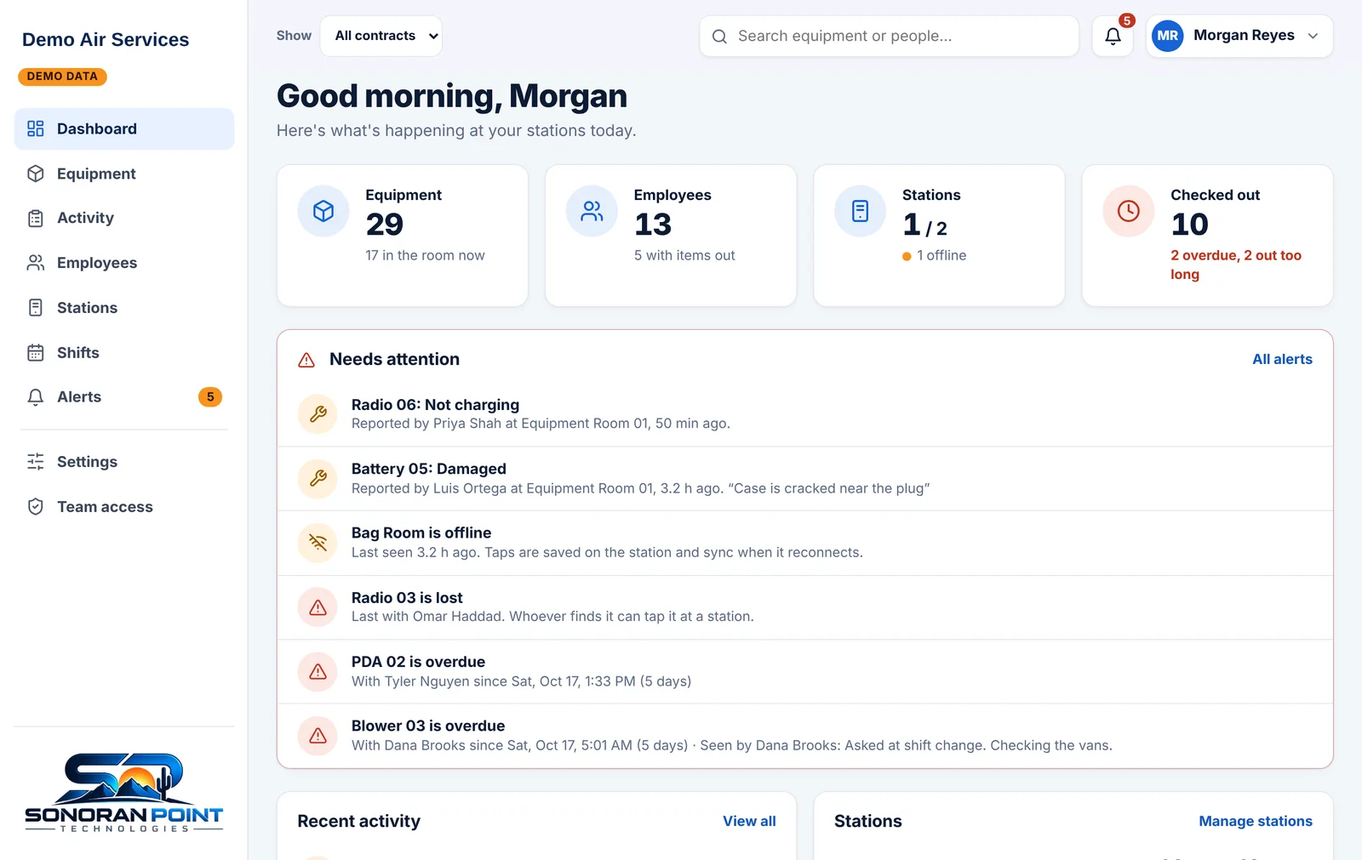
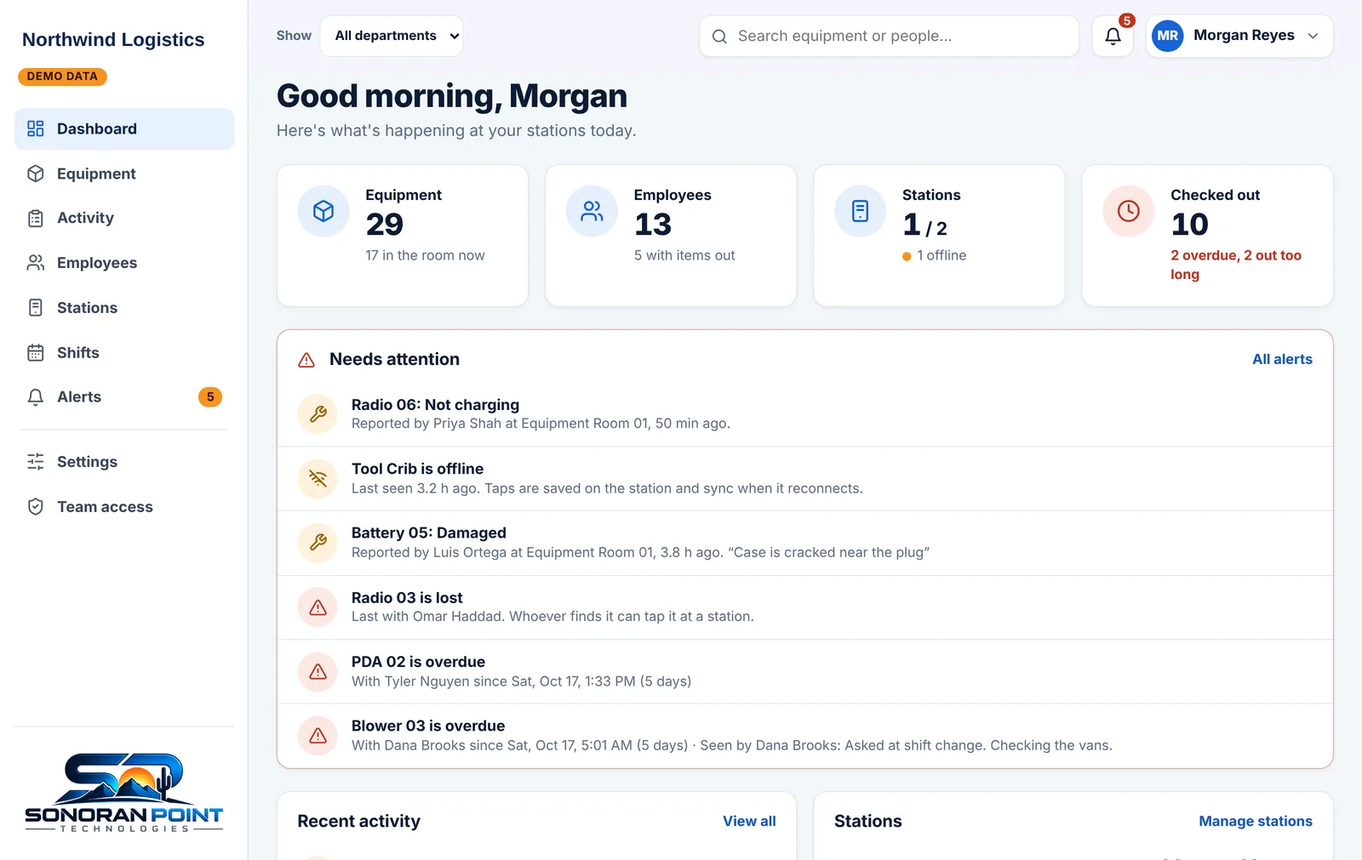
Site: broad asset-tracking pitch (accountability, ease of use, departments and sites under one company); drop the console demo; neutral demo company
Claude-Session: https://claude.ai/code/session_013UmVeohacmiEqqr8BzfnLS

diff --git a/site/index.html b/site/index.html
@@ -3,11 +3,11 @@
 <head>
 <meta charset="utf-8">
 <meta name="viewport" content="width=device-width, initial-scale=1">
-<title>Sonoran Point · Equipment checkout for ramp crews</title>
-<meta name="description" content="Crews tap their badge and the equipment at a station by the door. Supervisors see what's out, what's late and who had it last. Try it in your browser.">
+<title>Sonoran Point · Asset checkout and tracking</title>
+<meta name="description" content="Know where every asset is and who has it. Tap a badge, tap the item, done. Overdue alerts, full history, and every department and site under one company. Try it in your browser.">
 <link rel="icon" href="brand/favicon.ico" sizes="32x32"><link rel="icon" type="image/png" href="brand/mark-64.png"><link rel="apple-touch-icon" href="brand/apple-touch-icon.png">
-<meta property="og:title" content="Sonoran Point · Equipment checkout for ramp crews">
-<meta property="og:description" content="Tap a badge, tap the equipment, done. See what's out, what's late and who had it last.">
+<meta property="og:title" content="Sonoran Point · Asset checkout and tracking">
+<meta property="og:description" content="Know where every asset is and who has it. Tap a badge, tap the item, done.">
 <meta property="og:image" content="https://sonoranpoint.com/img/station_session.webp">
 <link rel="preconnect" href="https://fonts.googleapis.com"><link rel="preconnect" href="https://fonts.gstatic.com" crossorigin>
 <link rel="stylesheet" href="https://fonts.googleapis.com/css2?family=Saira:wght@500;600&family=Atkinson+Hyperlegible:wght@400;700&display=swap">
@@ -18,15 +18,15 @@
 <div class="hero">
   <header class="top dark"><div class="wrap">
     <a class="logo" href="/" aria-label="Sonoran Point Technologies, home"><img src="brand/logo-light.png" srcset="brand/logo-light.png 1x, brand/logo-light@2x.png 2x" alt="Sonoran Point Technologies" width="168" height="83"></a>
-    <nav aria-label="Main"><a href="#how">How it works</a><a href="/help/">Help</a><a href="https://app.sonoranpoint.com/">Sign in</a><a class="btn primary" href="/try/">Try it now</a></nav>
+    <nav aria-label="Main"><a href="#how">How it works</a><a href="#company">Your company</a><a href="/help/">Help</a><a href="https://app.sonoranpoint.com/">Sign in</a><a class="btn primary" href="/try/">Try it now</a></nav>
   </div></header>
   <div class="wrap grid" id="main">
     <div>
-      <h1>Every radio, tug key and battery, accounted for.</h1>
-      <p class="lede">Equipment checkout for ramp and ground-handling crews. Crews tap their badge and the gear at a station by the door. Supervisors see what's out, what's late and who had it last.</p>
+      <h1>Know where every asset is, and who has it.</h1>
+      <p class="lede">Checkout and tracking people actually use. Tap a badge, tap the item, done. Every tool, radio, laptop and key is tied to a person, with an alert the moment something's late.</p>
       <div class="cta"><a class="btn primary" href="/try/">Try it now</a><a class="btn ghost" href="mailto:support@sonoranpoint.com?subject=Sonoran%20Point">Email us</a></div>
     </div>
-    <img class="shot" src="img/station_session.webp" width="1600" height="1036" alt="The station screen after a badge tap: Hi, Alex. Checked out Vacuum 01, due back by 4:02 PM.">
+    <img class="shot" src="img/station_session.webp" width="1600" height="1035" alt="The station screen after a badge tap: Hi, Alex. Checked out Vacuum 01, due back by 4:02 PM.">
   </div>
   <svg class="ridge" viewBox="0 0 1440 120" preserveAspectRatio="none" aria-hidden="true"><path d="M0 120V84l96-22 70 18 118-50 92 34 64-12 138 54 120-44 84 20 150-62 112 46 90-14 128 40 78-16 110 30v18z" fill="var(--paper)"/></svg>
 </div>
@@ -34,48 +34,97 @@
 <main>
   <section class="band" id="how"><div class="wrap split">
     <div>
-      <h2>Three taps at the door</h2>
-      <p class="lede">The station sits by the equipment room. Nobody types, nobody signs a clipboard.</p>
+      <h2>So easy nobody skips it</h2>
+      <p class="lede">Tracking only works if people do it every time. A station by the door makes it a three-second habit: no logins, no typing, no clipboard.</p>
       <ol class="steps">
         <li><b>Tap your badge</b><span>The station says hello by name and shows what you already have out.</span></li>
-        <li><b>Tap the equipment</b><span>New items check out to you; items you have come back. Gear that already has a barcode can be scanned instead.</span></li>
+        <li><b>Tap the item</b><span>New items check out to you; items you have come back. Things that already carry a barcode can be scanned instead.</span></li>
         <li><b>Done</b><span>It asks if anything you returned has a problem, then signs you out on its own.</span></li>
       </ol>
     </div>
-    <img class="shot-frame" src="img/station.webp" width="1600" height="1036" alt="The station's start screen: Tap your badge, then tap what you're taking or bringing back." loading="lazy">
+    <img class="shot-frame" src="img/station.webp" width="1600" height="1035" alt="The station's start screen: Tap your badge, then tap what you're taking or bringing back." loading="lazy">
   </div></section>
 
   <section class="band"><div class="wrap split flip">
     <div>
-      <h2>Know what's out before the shift ends</h2>
-      <p class="lede">Supervisors get a dashboard on any computer or phone, and only the emails they ask for.</p>
+      <h2>Accountability without chasing anyone</h2>
+      <p class="lede">Every checkout has a name and a time on it. Managers see the whole picture on any computer or phone.</p>
       <ul class="facts">
-        <li><b>Overdue and out-too-long alerts</b><span>On the dashboard, and by email to the people who want them.</span></li>
+        <li><b>Who has it, since when</b><span>Tap any item at a station, or search the dashboard, and see who has it right now.</span></li>
+        <li><b>Late and long-out alerts</b><span>Set a time limit per item or type. Late items show up straight away, and by email to the people who want them.</span></li>
         <li><b>A report at the end of every shift</b><span>What went out, what came back and what's still missing, ready to sign off.</span></li>
-        <li><b>Problems reported at the station</b><span>Damaged, not charging, missing a part. Damaged gear is flagged before the next person takes it.</span></li>
-        <li><b>Separate contracts that never mix</b><span>Delta and United below wing each see their own gear and people, with loans between them when you allow it.</span></li>
-        <li><b>Download any list</b><span>Activity, equipment and shift reports go straight to a spreadsheet.</span></li>
+        <li><b>Problems reported on the spot</b><span>Damaged, not charging, missing a part. Damaged items are flagged before the next person takes them.</span></li>
+        <li><b>The full history, ready to export</b><span>Every checkout and return, kept, and one click from a spreadsheet.</span></li>
       </ul>
     </div>
-    <img class="shot-frame" src="img/app.webp" width="1600" height="1012" alt="The supervisor dashboard: equipment, employees, stations and checkouts, with a list of what needs attention." loading="lazy">
+    <img class="shot-frame" src="img/app.webp" width="1600" height="1011" alt="The dashboard: assets, people, stations and checkouts, with a list of what needs attention." loading="lazy">
+  </div></section>
+
+  <section class="band" id="company"><div class="wrap split">
+    <div>
+      <h2>One company, every department and site</h2>
+      <p class="lede">Build your company the way it's actually run, as many levels deep as you need, and put a station wherever things are kept.</p>
+      <ul class="facts">
+        <li><b>Your word for it</b><span>Call them departments, sites, teams or contracts. You choose the word, and the stations and dashboard use it.</span></li>
+        <li><b>Keep groups apart, or let them share</b><span>Each group's badges and assets work at its own stations. Let neighbours share, or keep them strictly separate.</span></li>
+        <li><b>Lend across groups</b><span>One department can lend an item to another until it's brought back.</span></li>
+        <li><b>Managers see their part</b><span>A department manager sees only their department. Owners see everything.</span></li>
+      </ul>
+    </div>
+    <figure class="orgtree" aria-label="Example: one company with sites, departments and stations">
+      <figcaption>For example</figcaption>
+      <ul>
+        <li><b>Northwind Logistics</b>
+          <ul>
+            <li><b>Phoenix site</b>
+              <ul>
+                <li>Shipping <span>Dock station</span></li>
+                <li>Maintenance <span>Tool crib station</span></li>
+              </ul>
+            </li>
+            <li><b>Tucson site</b>
+              <ul>
+                <li>Warehouse <span>Front desk station</span></li>
+              </ul>
+            </li>
+            <li><b>Field service</b>
+              <ul>
+                <li>North team <span>Van keys station</span></li>
+                <li>South team <span>Van keys station</span></li>
+              </ul>
+            </li>
+          </ul>
+        </li>
+      </ul>
+    </figure>
   </div></section>
 
   <section class="band"><div class="wrap">
-    <h2>Built for the equipment room</h2>
-    <p class="lede" style="margin-top:16px">A touchscreen station with an NFC reader built in. Mount it by the door and plug it in.</p>
+    <h2>For anything people borrow and bring back</h2>
+    <p class="lede" style="margin-top:16px">If it walks off, it can be tracked.</p>
+    <ul class="uses">
+      <li>Tool cribs and maintenance shops</li><li>Warehouses and logistics</li><li>IT, laptops and AV gear</li><li>Vehicle and building keys</li>
+      <li>Radios and handhelds</li><li>Schools and universities</li><li>Hospitals and labs</li><li>Airports and ground handling</li>
+      <li>Events and rental gear</li><li>Field service teams</li>
+    </ul>
+  </div></section>
+
+  <section class="band"><div class="wrap">
+    <h2>Runs itself</h2>
+    <p class="lede" style="margin-top:16px">A touchscreen station with an NFC reader built in. Mount it where things are kept and plug it in.</p>
     <ul class="facts two">
       <li><b>Keeps working when the Wi-Fi drops</b><span>Taps are saved on the station and sync when it's back online.</span></li>
       <li><b>Sets up with a code</b><span>Plug it in, join the Wi-Fi, type the code from the box.</span></li>
       <li><b>Updates itself</b><span>New versions install when nobody is using it, and roll back on their own if something's wrong.</span></li>
-      <li><b>Your logo and colors</b><span>Crews see your company on the screen, not ours.</span></li>
-      <li><b>NFC tags and the barcodes you already have</b><span>Badges and gear with existing barcodes work with a handheld scanner, wired or wireless.</span></li>
-      <li><b>Try it before you talk to anyone</b><span>The <a href="/try/">demo station</a> runs in your browser: tap badges, report a problem, open the admin menu.</span></li>
+      <li><b>Your logo and colors</b><span>People see your company on the screen, not ours.</span></li>
+      <li><b>NFC tags and the barcodes you already have</b><span>Existing badges and asset labels work with a handheld scanner, wired or wireless.</span></li>
+      <li><b>Try it before you talk to anyone</b><span>The <a href="/try/">demo</a> runs in your browser: check things out, report a problem, see the dashboard.</span></li>
     </ul>
   </div></section>
 </main>
 
 <div class="closing"><div class="wrap">
-  <div><h2>See it with your own crew in mind</h2><p>Questions, pricing or a pilot at your airport: <a href="mailto:support@sonoranpoint.com">support@sonoranpoint.com</a></p></div>
+  <div><h2>See it with your own assets in mind</h2><p>Questions, pricing or a pilot: <a href="mailto:support@sonoranpoint.com">support@sonoranpoint.com</a></p></div>
   <a class="btn primary" href="/try/">Try it now</a>
 </div></div>
 <footer class="foot"><div class="wrap">

diff --git a/site/try/index.html b/site/try/index.html
@@ -4,7 +4,7 @@
 <meta charset="utf-8">
 <meta name="viewport" content="width=device-width, initial-scale=1">
 <title>Try it · Sonoran Point</title>
-<meta name="description" content="Try the Sonoran Point station, supervisor dashboard and operator console in your browser, on made-up demo data.">
+<meta name="description" content="Try the Sonoran Point station and dashboard in your browser, on made-up demo data.">
 <link rel="icon" href="../brand/favicon.ico" sizes="32x32"><link rel="icon" type="image/png" href="../brand/mark-64.png"><link rel="apple-touch-icon" href="../brand/apple-touch-icon.png">
 <link rel="preconnect" href="https://fonts.googleapis.com"><link rel="preconnect" href="https://fonts.gstatic.com" crossorigin>
 <link rel="stylesheet" href="https://fonts.googleapis.com/css2?family=Saira:wght@500;600&family=Atkinson+Hyperlegible:wght@400;700&display=swap">
@@ -20,30 +20,24 @@
 <main id="main">
   <div class="wrap try-head">
     <h1>Try it</h1>
-    <p class="lede">The real station, dashboard and console, running in your browser on a made-up company. Nothing you do here leaves your browser, and it starts fresh when you reload.</p>
+    <p class="lede">The real station and dashboard, running in your browser on a made-up company. Nothing you do here leaves your browser, and it starts fresh when you reload.</p>
   </div>
   <div class="wrap">
     <iframe class="station-frame" src="station/" title="Demo station: tap badges and equipment in the panel beside it"></iframe>
-    <p style="margin-top:12px;color:var(--muted);font-size:15px">Things to try: tap <b>Alex Rivera</b>, then two pieces of equipment, then <b>Done</b>. Tap <b>Dana Brooks</b> (PIN 2468) to open the admin menu. Cut the Wi-Fi under Conditions and tap again: the station keeps going. <a href="station/" target="_blank" rel="noopener">Open it full screen</a>.</p>
+    <p style="margin-top:12px;color:var(--muted);font-size:15px">Things to try: tap <b>Alex Rivera</b>, then two items, then <b>Done</b>. Tap <b>Dana Brooks</b> (PIN 2468) to open the admin menu. Cut the Wi-Fi under Conditions and tap again: the station keeps going. <a href="station/" target="_blank" rel="noopener">Open it full screen</a>.</p>
   </div>
-  <div class="wrap demos">
-    <div class="demo">
-      <a href="app/" target="_blank" rel="noopener"><img class="shot-frame" src="../img/app.webp" width="1600" height="1011" alt="The supervisor dashboard" loading="lazy"></a>
-      <h2>Supervisor dashboard</h2>
-      <p>What managers and supervisors use: what's out and overdue, problems reported at the station, shift reports, people and equipment. Switch roles with <b>Preview as</b> in the top-right menu to see what a supervisor or viewer gets.</p>
-      <a class="btn line" href="app/" target="_blank" rel="noopener">Open the demo dashboard</a>
+  <div class="wrap split demo-dash">
+    <div>
+      <h2>The dashboard</h2>
+      <p class="lede" style="margin-top:12px">What managers use: what's out and what's late, problems reported at the station, shift reports, people, assets and stations, and every department under one company. Switch roles with <b>Preview as</b> in the top-right menu to see what a supervisor or a view-only user gets.</p>
+      <p style="margin-top:22px"><a class="btn line" href="app/" target="_blank" rel="noopener">Open the demo dashboard</a></p>
     </div>
-    <div class="demo">
-      <a href="console/" target="_blank" rel="noopener"><img class="shot-frame" src="../img/console.webp" width="1600" height="1011" alt="The operator console" loading="lazy"></a>
-      <h2>Operator console</h2>
-      <p>What our team uses to set up and look after customers: new companies, stations and activation codes, hardware we ship, and the health of every station.</p>
-      <a class="btn line" href="console/" target="_blank" rel="noopener">Open the demo console</a>
-    </div>
+    <a href="app/" target="_blank" rel="noopener" aria-label="Open the demo dashboard"><img class="shot-frame" src="../img/app.webp" width="1600" height="1011" alt="The dashboard" loading="lazy"></a>
   </div>
 </main>
 
 <div class="closing"><div class="wrap">
-  <div><h2>Want it at your airport?</h2><p>Questions, pricing or a pilot: <a href="mailto:support@sonoranpoint.com">support@sonoranpoint.com</a></p></div>
+  <div><h2>Want it for your team?</h2><p>Questions, pricing or a pilot: <a href="mailto:support@sonoranpoint.com">support@sonoranpoint.com</a></p></div>
   <a class="btn primary" href="mailto:support@sonoranpoint.com?subject=Sonoran%20Point%20pilot">Email us</a>
 </div></div>
 <footer class="foot"><div class="wrap">

diff --git a/site/help/index.html b/site/help/index.html
@@ -25,7 +25,7 @@
     <a href="#offline">When the Wi-Fi is down</a><a href="#admin">Managers and admins</a>
     <b>In the dashboard</b>
     <a href="#sign-in">Signing in</a><a href="#adding">Adding equipment and people</a><a href="#alerts">Alerts and emails</a>
-    <a href="#reports">Shift reports</a><a href="#contracts">Contracts and who sees what</a><a href="#export">Downloading lists</a>
+    <a href="#reports">Shift reports</a><a href="#contracts">Departments and who sees what</a><a href="#export">Downloading lists</a>
     <b>Something's wrong</b>
     <a href="#station-offline">A station shows offline</a><a href="#reader">"NFC reader not responding"</a><a href="#code">The activation code doesn't work</a><a href="#lost-badge">A badge is lost</a>
     <a href="#contact">Contact us</a>
@@ -33,7 +33,7 @@
 
   <article id="main">
     <h1>Help</h1>
-    <p class="lede" style="margin-top:12px">Short answers for crews at the station and for supervisors in the dashboard. Can't find it? Email <a href="mailto:support@sonoranpoint.com">support@sonoranpoint.com</a>.</p>
+    <p class="lede" style="margin-top:12px">Short answers for people at the station and for managers in the dashboard. Can't find it? Email <a href="mailto:support@sonoranpoint.com">support@sonoranpoint.com</a>.</p>
 
     <h2>At the station</h2>
     <h3 id="check-out">Check something out</h3>
@@ -55,13 +55,13 @@
     <p>Tap the item on its own, without a badge. The station shows who has it and since when.</p>
 
     <h3 id="not-your-station">"Not your station"</h3>
-    <p>Your badge, or the item, belongs to another contract (for example United below wing at a Delta station). Use your own team's station. If you borrowed something with permission, a supervisor can lend it to your contract.</p>
+    <p>Your badge, or the item, belongs to another department that doesn't share with this station's. Use your own department's station. If you borrowed something with permission, a supervisor can lend it to your department.</p>
 
     <h3 id="offline">When the Wi-Fi is down</h3>
     <p>Keep tapping. The station saves every tap and sends them as soon as it's back online. The bottom bar shows how many are waiting.</p>
 
     <h3 id="admin">Managers and admins</h3>
-    <p>Tap a manager or admin fob and enter your PIN to open the admin menu. From there you can add equipment and employees (tap their new badge or tag), replace a lost badge, check equipment out for someone, lend gear to another contract, and change the station's Wi-Fi.</p>
+    <p>Tap a manager or admin fob and enter your PIN to open the admin menu. From there you can add equipment and employees (tap their new badge or tag), replace a lost badge, check equipment out for someone, lend an item to another department, and change the station's Wi-Fi.</p>
     <p class="note">Hold the logo at the top of the screen to see its connection and any taps waiting to sync.</p>
 
     <h2>In the dashboard</h2>
@@ -77,8 +77,8 @@
     <h3 id="reports">Shift reports</h3>
     <p>At the end of each shift the dashboard saves a report: what went out, what came back, and what's still missing and with whom. A supervisor signs it off with a note.</p>
 
-    <h3 id="contracts">Contracts and who sees what</h3>
-    <p>Admins set up contracts (like Delta below wing and United below wing) under <span class="ui">Settings</span>, and choose whether they share badges and gear. Under <span class="ui">Team access</span>, each manager can be limited to their own contracts.</p>
+    <h3 id="contracts">Departments and who sees what</h3>
+    <p>Admins set up the company's groups under <span class="ui">Settings</span>, as many levels deep as needed, and pick the word for them (department, site, team, contract). Each group can share badges and items with its neighbours or stay separate. Under <span class="ui">Team access</span>, each manager can be limited to their own groups.</p>
 
     <h3 id="export">Downloading lists</h3>
     <p>Activity, Equipment and shift reports each have <span class="ui">Download CSV</span>, which opens in Excel or Google Sheets.</p>

diff --git a/dashboard/dashboard.html b/dashboard/dashboard.html
@@ -641,9 +641,9 @@ function buildDemo() {
   const rnd = mulberry32(1015);
   const now = Date.now();
   const tz = "America/Phoenix";
-  const org = { name: "Demo Air Services", logo_url: "", logo_dark_url: null, primary: "#1F4E79", accent: "#F2A900", timezone: tz, extended_hours: 9,
+  const org = { name: window.SP_DEMO ? "Northwind Logistics" : "Demo Air Services", logo_url: "", logo_dark_url: null, primary: "#1F4E79", accent: "#F2A900", timezone: tz, extended_hours: 9,
     settings: { allow_return_by_other: true, allow_checkout_while_held: false },
-    terminology: { equipment: "Equipment", employee: "Employee" }, modules: ["shifts"] };
+    terminology: { equipment: "Equipment", employee: "Employee", ...(window.SP_DEMO ? { contract: "Department", contract_plural: "Departments" } : {}) }, modules: ["shifts"] };
   const categories = [
     ["Vacuum", "hours", 8, null], ["Blower", "hours", 8, null], ["Battery", "hours", 12, 14],
     ["PDA", "hours", 10, null], ["Radio", "shift_end", 10, null], ["Van Keys", "none", null, null],
@@ -670,8 +670,8 @@ function buildDemo() {
     id: "e" + (i + 1), first, last, name: `${first} ${last}`, number, role, active,
     badge: "04BA0000" + String(i + 1).padStart(4, "0"), shifts: shift ? [shift] : [], pin: role !== "employee" }));
   const stations = [
-    { id: "st1", name: "Equipment Room 01", location: "Terminal 3", version: "station-0.1.0", last_seen: now - 40 * 1000, revoked: false, added: now - 30 * 86400000 },
-    { id: "st2", name: "Bag Room", location: "Terminal 4", version: "station-0.1.0", last_seen: now - 3.2 * HOUR, revoked: false, added: now - 12 * 86400000 },
+    { id: "st1", name: "Equipment Room 01", location: window.SP_DEMO ? "Phoenix site" : "Terminal 3", version: "station-0.1.0", last_seen: now - 40 * 1000, revoked: false, added: now - 30 * 86400000 },
+    { id: "st2", name: window.SP_DEMO ? "Tool Crib" : "Bag Room", location: window.SP_DEMO ? "Phoenix site" : "Terminal 4", version: "station-0.1.0", last_seen: now - 3.2 * HOUR, revoked: false, added: now - 12 * 86400000 },
   ];
   const cat = (id) => categories.find((c) => c.id === id);
   const limitFor = (q) => { const c = cat(q.cat); const rule = q.mode === "category" ? c.rule : q.mode;
@@ -779,7 +779,9 @@ function buildDemo() {
   // Checkouts of an item with an open problem are flagged (the station warns them to look it over).
   for (const p of problems) if (!p.cleared_at) txns.filter((t) => t.eq === p.eq && t.action === "checkout" && t.at > p.at).forEach((t) => t.flags.push("reported_problem"));
   // Contracts: below wing never crosses; above wing shares and items move to where they're returned.
-  const contracts = [["bw", null, "BW"], ["aw", null, "AW", true, true], ["dbw", "bw", "Delta BW"], ["ubw", "bw", "United BW"], ["daw", "aw", "Delta AW"], ["uaw", "aw", "United AW"]]
+  const contracts = (window.SP_DEMO   // the public demo (sonoranpoint.com/try) shows a general company
+    ? [["bw", null, "Phoenix site"], ["aw", null, "Field service", true, true], ["dbw", "bw", "Shipping"], ["ubw", "bw", "Maintenance"], ["daw", "aw", "North team"], ["uaw", "aw", "South team"]]
+    : [["bw", null, "BW"], ["aw", null, "AW", true, true], ["dbw", "bw", "Delta BW"], ["ubw", "bw", "United BW"], ["daw", "aw", "Delta AW"], ["uaw", "aw", "United AW"]])
     .map(([id, parent, name, share = false, move = false], i) => ({ id, parent, name, share, move, sort: i }));
   employees.forEach((e, i) => { if (e.role === "employee") e.contract = ["dbw", "ubw", "daw"][i % 3]; });
   equipment.forEach((q) => { q.contract = { c1: "dbw", c2: "dbw", c3: "ubw", c4: "ubw", c5: "daw", c6: "uaw" }[q.cat] || null; });

diff --git a/site/site.css b/site/site.css
@@ -89,6 +89,20 @@ footer.foot .wrap { display: flex; gap: 20px 32px; flex-wrap: wrap; align-items:
 footer.foot nav { display: flex; gap: 20px; flex-wrap: wrap; margin-left: auto; }
 footer.foot a { color: var(--muted); }
 
+/* Example company tree */
+.orgtree { margin: 0; background: var(--surface); border: 1px solid var(--line); border-radius: 14px; padding: 22px 26px; font-size: 16px; }
+.orgtree figcaption { color: var(--muted); font-size: 14px; margin-bottom: 10px; }
+.orgtree ul { list-style: none; margin: 0; padding: 0; }
+.orgtree ul ul { margin-left: 10px; padding-left: 18px; border-left: 2px solid var(--line); }
+.orgtree li { padding: 6px 0 0; position: relative; }
+.orgtree ul ul > li::before { content: ""; position: absolute; left: -18px; top: 18px; width: 12px; border-top: 2px solid var(--line); }
+.orgtree b { font-family: var(--display); font-weight: 600; font-size: 18px; }
+.orgtree span { display: inline-block; margin-left: 8px; font-size: 13.5px; font-weight: 700; color: var(--blue); background: color-mix(in srgb, var(--blue) 10%, transparent); padding: 1px 9px; border-radius: 99px; }
+@media (prefers-color-scheme: dark) { .orgtree span { color: #8cc0ff; } }
+
+.uses { list-style: none; padding: 0; margin: 28px 0 0; display: flex; flex-wrap: wrap; gap: 10px; }
+.uses li { border: 1px solid var(--line); background: var(--surface); border-radius: 99px; padding: 8px 16px; font-weight: 700; font-size: 15.5px; }
+
 /* Help */
 .doc { display: grid; grid-template-columns: 230px minmax(0, 1fr); gap: 56px; padding-top: 56px; padding-bottom: 96px; }
 .doc nav.toc { position: sticky; top: 24px; align-self: start; font-size: 15px; }
@@ -108,6 +122,7 @@ kbd, .ui { font-family: var(--body); font-weight: 700; }
 .try-head h1 { font-size: clamp(36px, 5vw, 52px); font-weight: 600; }
 .try-head .lede { margin-top: 12px; }
 .station-frame { width: 100%; height: 900px; border: 1px solid var(--line); border-radius: 16px; background: #fff; display: block; }
+.demo-dash { padding-top: 72px; padding-bottom: 96px; }
 .demos { display: grid; grid-template-columns: repeat(2, minmax(0, 1fr)); gap: 32px; padding-top: 64px; padding-bottom: 96px; }
 .demo h2 { font-size: 28px; margin-top: 18px; }
 .demo p { color: var(--muted); margin-top: 8px; }

diff --git a/tests/ui/site.js b/tests/ui/site.js
@@ -1,4 +1,4 @@
-// The public site's "Try it" copies stay on demo data on sonoranpoint.com, and the site's own links point at real files.
+// The public site's "Try it" copies (station and dashboard; the console isn't public) stay on demo data on sonoranpoint.com, and the site's own links point at real files.
 const { JSDOM } = require("jsdom");
 const fs = require("fs"), path = require("path");
 const ROOT = path.resolve(__dirname, "../..");
@@ -9,8 +9,6 @@ const open = (file, pre, url) => new JSDOM("<!doctype html><html><body>" + pre +
 (async () => {
   const app = open("dashboard/dashboard.html", "<script>window.SP_DEMO = true;</script>", "https://sonoranpoint.com/try/app/"); await sleep(300);
   check(app.window.eval("LIVE") === false && /Demo data/i.test(app.window.document.body.textContent), "the demo dashboard on sonoranpoint.com runs on demo data, not the real database");
-  const con = open("platform/console.html", "<script>window.SP_DEMO = true;</script>", "https://sonoranpoint.com/try/console/"); await sleep(300);
-  check(con.window.eval("LIVE") === false && !/g\.ryan@/.test(con.window.document.body.innerHTML) && con.window.eval("OPERATOR.email").endsWith(".example"), "the demo console runs on demo data and shows no real email addresses");
   const st = open("station/station.html", "<script>window.SP_DEMO = true; window.SP_TRY = true;</script>", "https://sonoranpoint.com/try/station/"); await sleep(1800);
   const sd = st.window.document;
   check(/Tap your badge/.test(sd.querySelector("#screen").textContent) && sd.querySelector("#boxSetup").style.display === "none" && /Try the station/.test(sd.querySelector(".bench-head").textContent),

diff --git a/station/station.html b/station/station.html
@@ -653,7 +653,7 @@ function demoSeed() {
   equipment.push({ id: "q71", category_id: "c5", name: "Headset 01", barcode: "PAS-10021", nfc_uid: barcodeUid("PAS-10021"),
     status: "available", mode: "category", hours: null, extended: null, current_employee_id: null, checked_out_at: null, due_at: null, last_event_at: null });
   return {
-    org: { name: "Demo Air Services", timezone: "America/Phoenix", primary_color: "#1F4E79", accent_color: "#F2A900", logo_url: null,
+    org: { name: window.SP_DEMO ? "Northwind Logistics" : "Demo Air Services", timezone: "America/Phoenix", primary_color: "#1F4E79", accent_color: "#F2A900", logo_url: null,
       extended_checkout_hours: 9, enabled_modules: ["shifts"],
       terminology: { equipment: "Equipment", equipment_plural: "Equipment", employee: "Employee", employee_plural: "Employees", checkout: "Check Out", checkin: "Return" },
       settings: { allow_return_by_other: true, allow_checkout_while_held: false } },
@@ -672,7 +672,7 @@ function demoSeed() {
       { id: "s3", name: "Overnight", start: "21:00", end: "05:30", days: null, early: 60, active: true },
     ],
     assignments: [["s1", "e1"], ["s1", "e2"], ["s3", "e3"]],
-    stations: [{ id: "st1", name: "Equipment Room 01", location: "Terminal 3", code: "DEMO0001", key_hash: null, activated: false, revoked: false, last_seen: null }],
+    stations: [{ id: "st1", name: "Equipment Room 01", location: window.SP_DEMO ? "Phoenix site" : "Terminal 3", code: "DEMO0001", key_hash: null, activated: false, revoked: false, last_seen: null }],
     txns: [],
     audit: [],   // staff actions (what the audit log records)
     reasons: demoReasons(),

diff --git a/deploy/build.py b/deploy/build.py
@@ -6,7 +6,7 @@
   dist/app/       -> Cloudflare Pages project "sonoranpoint-app",     domain app.sonoranpoint.com
   dist/console/   -> Cloudflare Pages project "sonoranpoint-console", domain console.sonoranpoint.com
   dist/site/      -> Cloudflare Pages project "sonoranpoint-site",    domain sonoranpoint.com
-                     (site/ pages + "Try it" copies of the station, dashboard and console on demo data)
+                     (site/ pages + "Try it" copies of the station and dashboard on demo data)
   dist/station/   -> the station app, for setting up a Pi by hand (served at http://localhost/)
   dist/app/station-release/latest.json + station-<hash>.zip
                   -> what stations update themselves to (station/pi/station_updater.py checks it)
@@ -95,24 +95,22 @@ SITE_HEADERS = """/*
   Cache-Control: no-cache
 /try/app/*
   X-Robots-Tag: noindex
-/try/console/*
-  X-Robots-Tag: noindex
 /try/station/*
   X-Robots-Tag: noindex
 """
 
 def build_site():
-    """sonoranpoint.com: the site's own pages, plus the station, dashboard and console running on made-up demo data."""
+    """sonoranpoint.com: the site's own pages, plus the station and dashboard running on made-up demo data."""
     out = DIST / "site"
     shutil.copytree(ROOT / "site", out, ignore=shutil.ignore_patterns("*.md"))
     (out / "_headers").write_text(SITE_HEADERS)
-    (out / "robots.txt").write_text("User-agent: *\nDisallow: /try/app/\nDisallow: /try/console/\nDisallow: /try/station/\nSitemap: https://sonoranpoint.com/sitemap.xml\n")
+    (out / "robots.txt").write_text("User-agent: *\nDisallow: /try/app/\nDisallow: /try/station/\nSitemap: https://sonoranpoint.com/sitemap.xml\n")
     brand = ["logo.png", "logo@2x.png", "logo-light.png", "logo-light@2x.png", "mark-64.png", "mark-180.png", "mark-512.png", "favicon.ico", "apple-touch-icon.png", "app-icon-512.png"]
     (out / "brand").mkdir(exist_ok=True)
     for f in brand: shutil.copy(ROOT / "brand" / f, out / "brand" / f)
     # Demo copies: forced onto demo data, starting fresh on each visit.
     demo = '<script>window.SP_DEMO = true;</script>\n'
-    for name, src, extra in [("app", ROOT / "dashboard" / "dashboard.html", ""), ("console", ROOT / "platform" / "console.html", ""),
+    for name, src, extra in [("app", ROOT / "dashboard" / "dashboard.html", ""),
                              ("station", ROOT / "station" / "station.html", '<script>window.SP_TRY = true; try { localStorage.removeItem("station.v2"); } catch {}</script>\n')]:
         d = out / "try" / name; d.mkdir(parents=True)
         (d / "index.html").write_text(HEAD + demo + extra + (src).read_text() + "\n</html>\n")

diff --git a/CLAUDE.md b/CLAUDE.md
@@ -9,8 +9,9 @@ See README.md for the full product description.
 - `station/station.html` — the kiosk screen on each Pi; `station/pi/` — PN532 reader service, Wi-Fi helper
 - `supabase/migrations/` — database, applied in filename order; `supabase/tests/smoke_test.sql` — DB tests
 - `brand/` — logos (`source-logo.png` is the official logo; `logo.png`/`logo@2x.png` are made from it; `logo-light*.png` are the same with the navy SONORAN/TECHNOLOGIES lettering made white, for dark backgrounds — no SVG), icons, `sp-theme.css` (injected between `SP-THEME:start/end` in dashboard + console)
-- `site/` — sonoranpoint.com (home, help, try); the build adds demo copies of the station/dashboard/console under `try/`
-  (`window.SP_DEMO` forces demo data; `window.SP_TRY` starts the station set up). Never use real customer names or emails there.
+- `site/` — sonoranpoint.com (home, help, try): pitched broadly as asset checkout/tracking, not airport-only. The build adds demo
+  copies of the station and dashboard under `try/` (no console: customers never see it). `window.SP_DEMO` forces demo data and
+  swaps in a neutral company (Northwind Logistics, departments); `window.SP_TRY` starts the station set up. No real names or emails there.
 - `deploy/build.py` — builds `deploy/dist/{app,console,station,site}`; `deploy/email-templates/` — Supabase auth emails
 - `tests/run.sh` — runs everything; `tests/ui/` — jsdom screen tests
 
